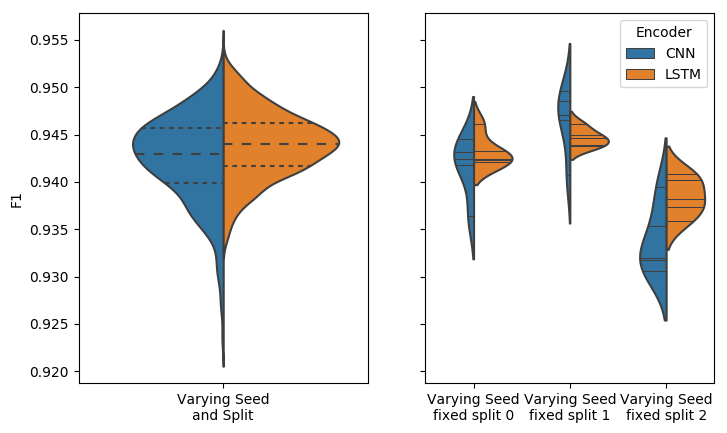
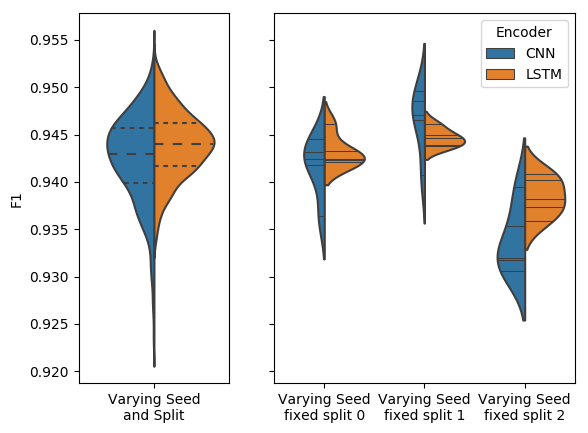
Improved subplots ratio

diff --git a/violin_plot_of_ner_scores.py b/violin_plot_of_ner_scores.py
@@ -110,7 +110,7 @@ if __name__ == '__main__':
         
         large_data = all_data[all_data['Training Method'].isin(large_data_plot_names)]
         small_data = all_data[~all_data['Training Method'].isin(large_data_plot_names)]
-        fig, axs = plt.subplots(1, 2, sharey=True, sharex=False)
+        fig, axs = plt.subplots(1, 2, sharey=True, sharex=False, gridspec_kw = {'width_ratios':[1, 2]})
         axs[0] = sns.violinplot(y="F1", x="Training Method", hue="Encoder",
                                data=large_data, inner="quartiles", split=True, ax=axs[0])
         axs[1] = sns.violinplot(y="F1", x="Training Method", hue="Encoder",
@@ -119,7 +119,6 @@ if __name__ == '__main__':
         axs[0].get_legend().remove()
         axs[1].set_xlabel("")
         axs[1].set_ylabel("")
-        fig.set_figwidth(8.2)
         fig.savefig(str(plot_fp.resolve()), bbox_inches='tight')
     else:
         ax = sns.violinplot(y="F1", x="Training Method", hue="Encoder",
